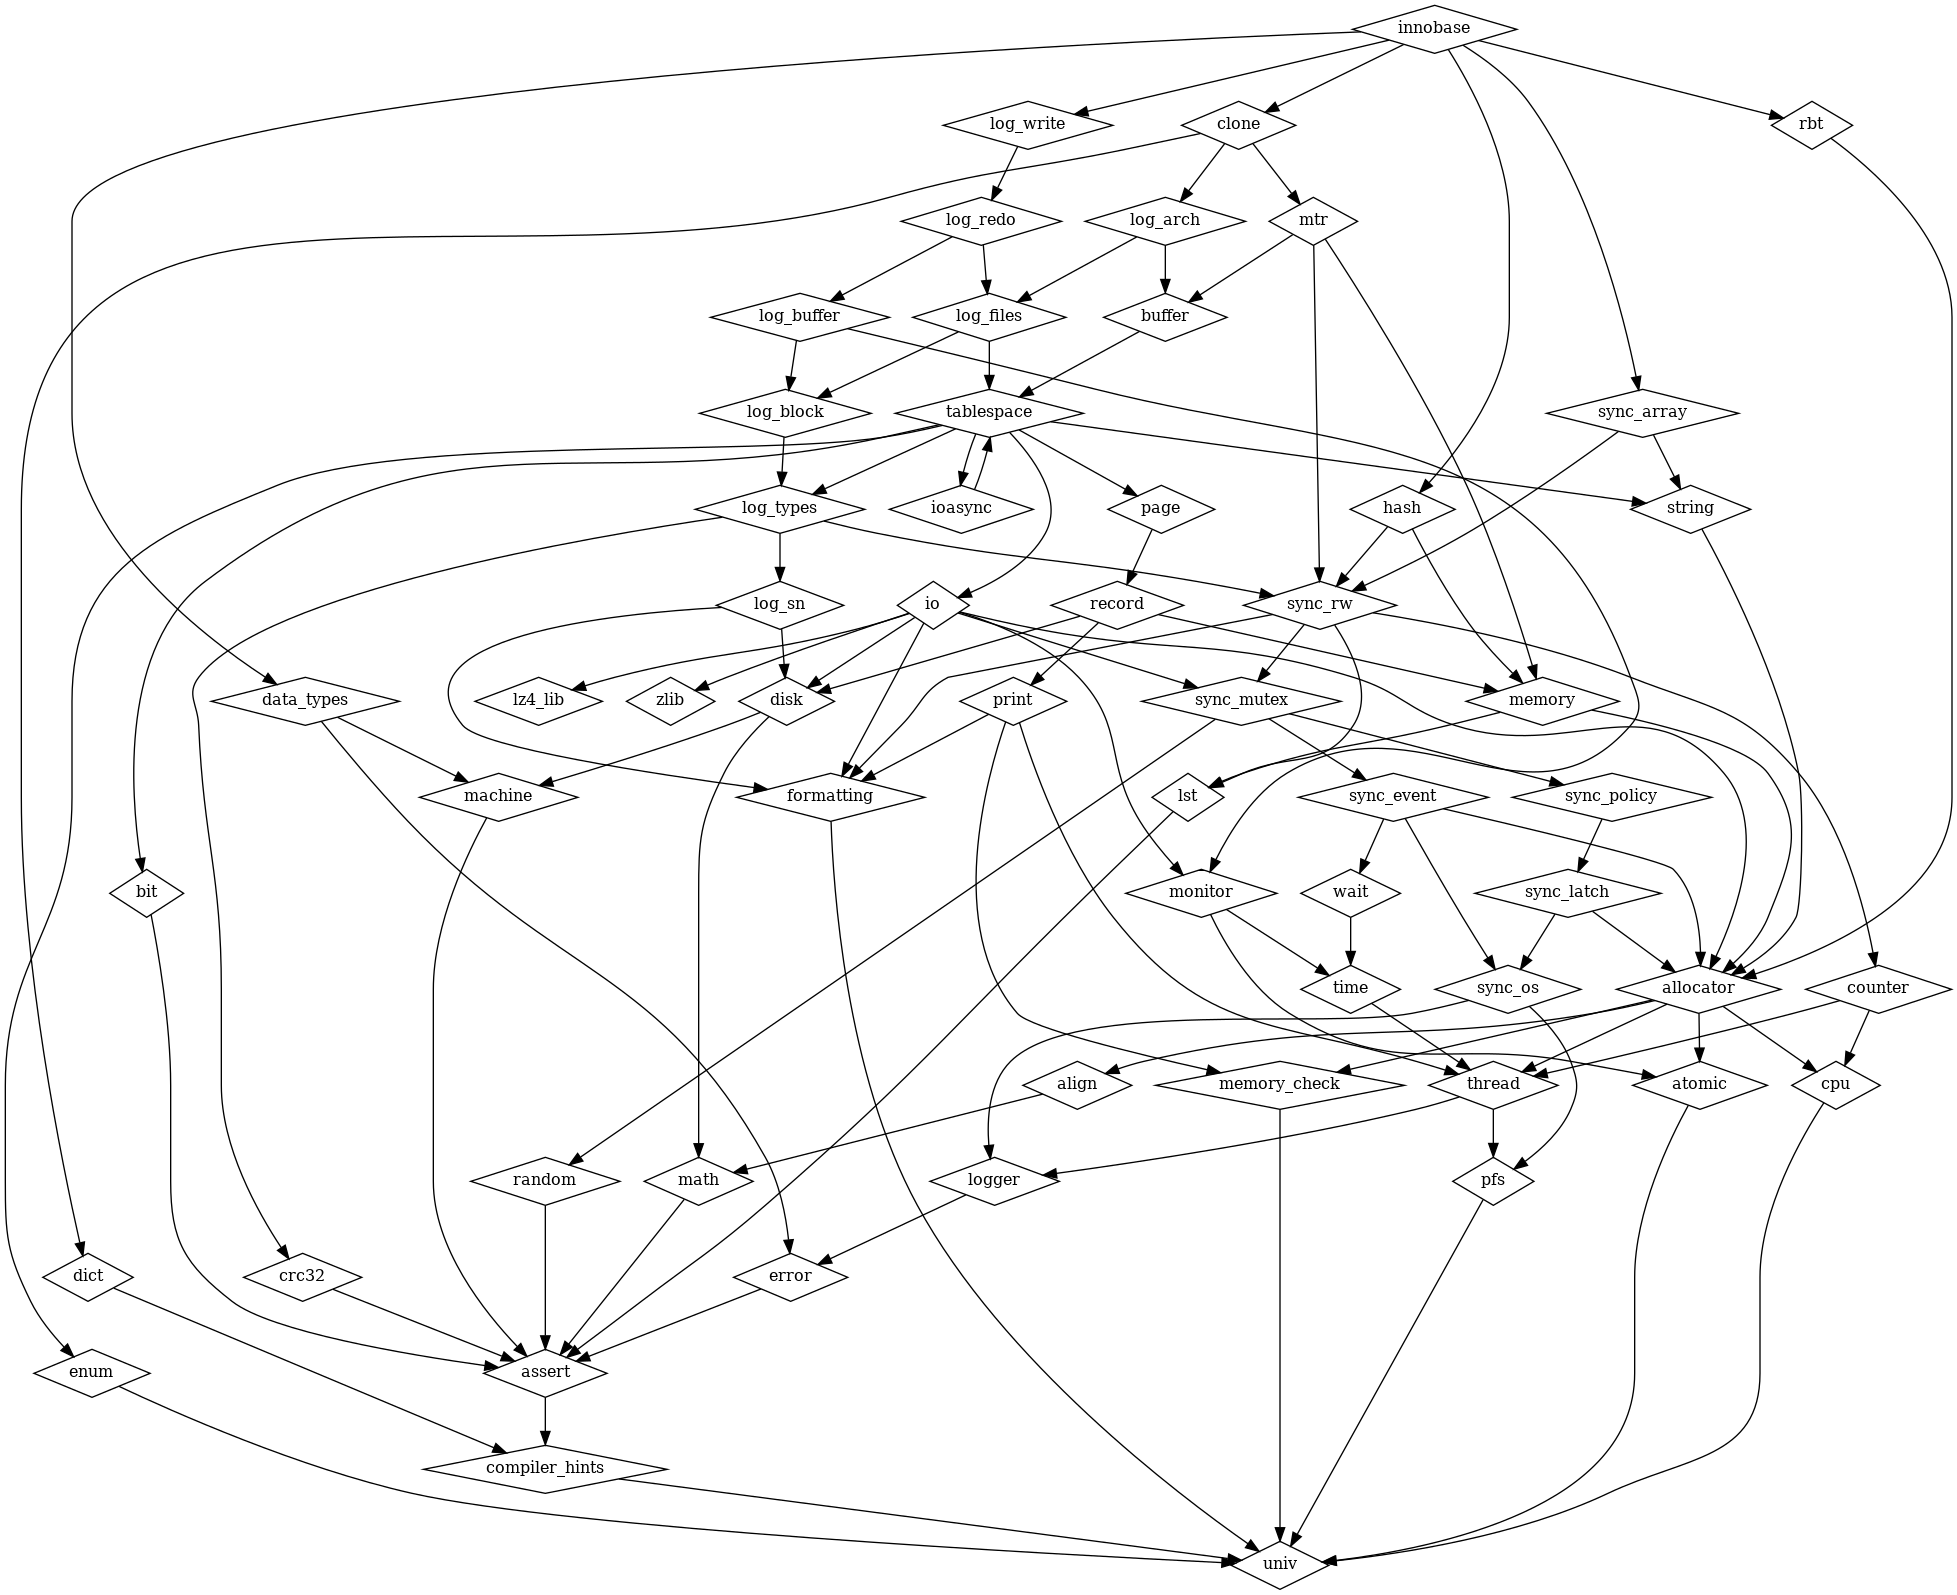
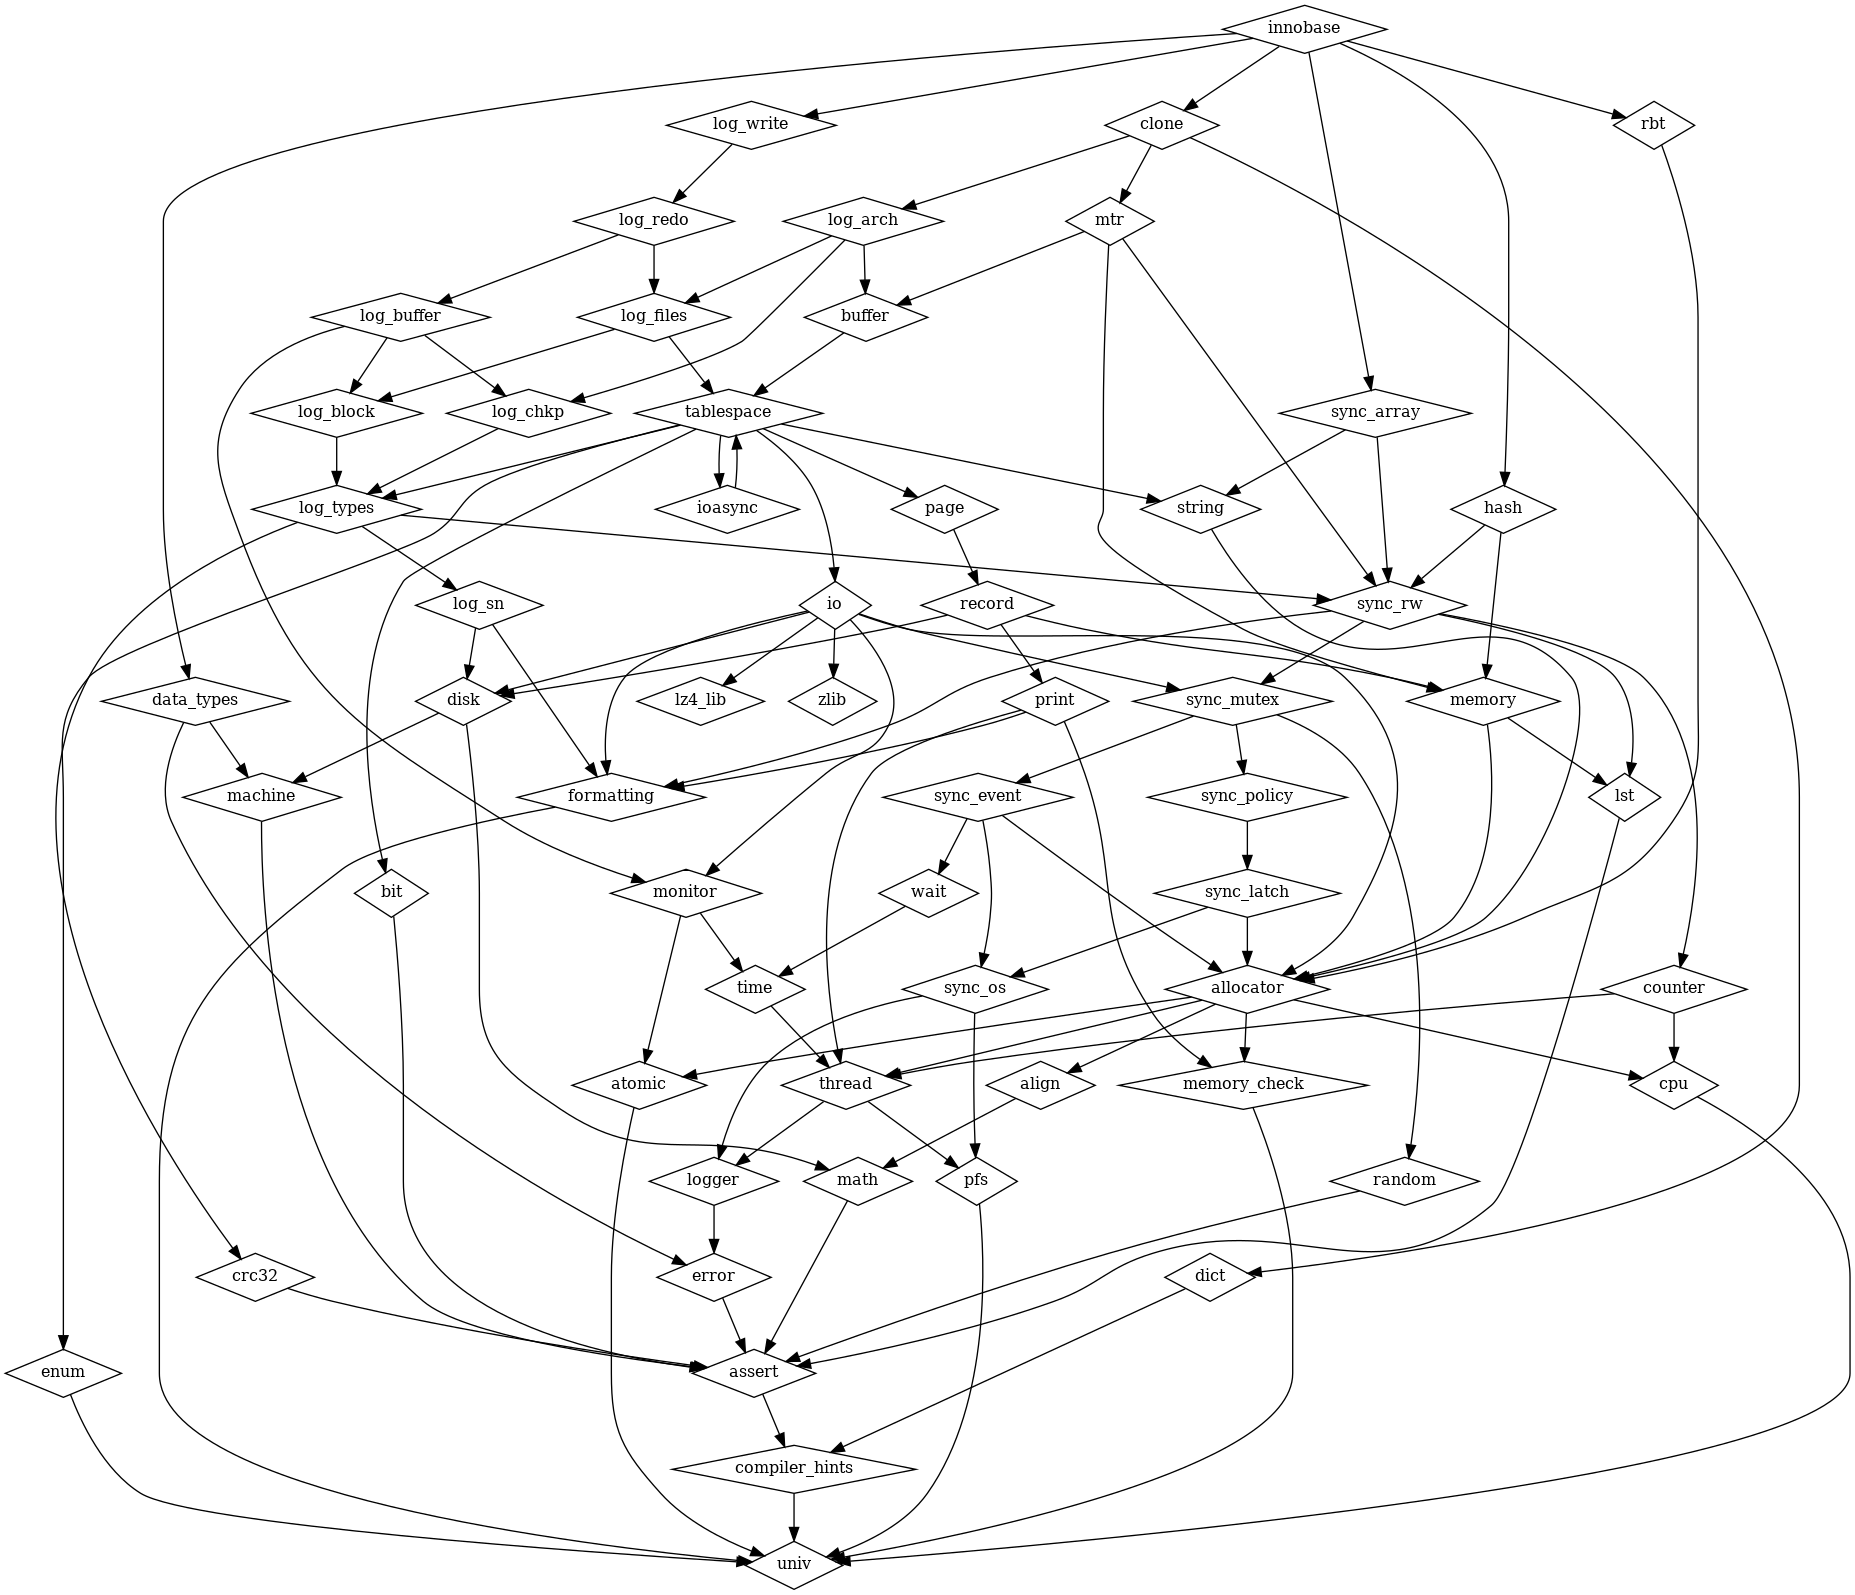
Create log_chkp library

diff --git a/storage/innobase/include/log0log.h b/storage/innobase/include/log0log.h
@@ -89,8 +89,8 @@ this program; if not, write to the Free Software Foundation, Inc.,
 #include <innodb/log_types/log_checksum_algorithm_ptr.h>
 #include <innodb/log_buffer/log_allocate_buffer.h>
 #include <innodb/log_redo/log_allocate_write_ahead_buffer.h>
-#include <innodb/log_redo/log_allocate_checkpoint_buffer.h>
-#include <innodb/log_redo/log_deallocate_checkpoint_buffer.h>
+#include <innodb/log_chkp/log_allocate_checkpoint_buffer.h>
+#include <innodb/log_chkp/log_deallocate_checkpoint_buffer.h>
 #include <innodb/log_redo/log_deallocate_flush_events.h>
 #include <innodb/log_redo/log_allocate_flush_events.h>
 #include <innodb/log_redo/log_deallocate_write_ahead_buffer.h>
@@ -122,7 +122,7 @@ this program; if not, write to the Free Software Foundation, Inc.,
 #include <innodb/log_sn/log_lsn_validate.h>
 #include <innodb/log_types/log_get_lsn.h>
 #include <innodb/log_types/log_get_checkpoint_lsn.h>
-#include <innodb/log_redo/log_get_checkpoint_age.h>
+#include <innodb/log_chkp/log_get_checkpoint_age.h>
 #include <innodb/log_buffer/log_buffer_flush_to_disk.h>
 #include <innodb/log_buffer/log_buffer_ready_for_write_lsn.h>
 #include <innodb/log_buffer/log_buffer_dirty_pages_added_up_to_lsn.h>

diff --git a/storage/innobase/handler/ha_innodb.cc b/storage/innobase/handler/ha_innodb.cc
@@ -62,10 +62,10 @@ this program; if not, write to the Free Software Foundation, Inc.,
 #include <innodb/sync_os/pfs.h>
 #include <innodb/log_write/srv_flushing_avg_loops.h>
 #include <innodb/log_write/srv_log_spin_cpu_pct_hwm.h>
-#include <innodb/log_types/log_checkpointer_mutex_exit.h>
+#include <innodb/log_chkp/log_checkpointer_mutex_exit.h>
 #include <innodb/log_types/log_writer_mutex_exit.h>
 #include <innodb/log_types/log_writer_mutex_enter.h>
-#include <innodb/log_types/log_checkpointer_mutex_enter.h>
+#include <innodb/log_chkp/log_checkpointer_mutex_enter.h>
 #include <innodb/memory/mem_heap_get_size.h>
 #include <innodb/memory/mem_heap_strdupl.h>
 #include <innodb/memory/mem_heap_empty.h>

diff --git a/storage/innobase/log/log0buf.cc b/storage/innobase/log/log0buf.cc
@@ -39,10 +39,10 @@ Foundation, Inc., 51 Franklin St, Fifth Floor, Boston, MA 02110-1301  USA
 
  *******************************************************/
 
-#include <innodb/log_types/log_checkpointer_mutex_exit.h>
+#include <innodb/log_chkp/log_checkpointer_mutex_exit.h>
 #include <innodb/log_types/log_writer_mutex_exit.h>
 #include <innodb/log_types/log_writer_mutex_enter.h>
-#include <innodb/log_types/log_checkpointer_mutex_enter.h>
+#include <innodb/log_chkp/log_checkpointer_mutex_enter.h>
 #include <innodb/logger/info.h>
 #include <innodb/align/ut_uint64_align_down.h>
 #include <innodb/align/ut_uint64_align_up.h>

diff --git a/storage/innobase/libs/log_buffer/src/log_buffer_resize.cpp b/storage/innobase/libs/log_buffer/src/log_buffer_resize.cpp
@@ -2,11 +2,11 @@
 
 #include <innodb/log_types/log_t.h>
 #include <innodb/log_types/log_get_lsn.h>
-#include <innodb/log_types/log_checkpointer_mutex_enter.h>
+#include <innodb/log_chkp/log_checkpointer_mutex_enter.h>
 #include <innodb/log_types/log_writer_mutex_enter.h>
 #include <innodb/log_buffer/log_buffer_resize_low.h>
 #include <innodb/log_types/log_writer_mutex_exit.h>
-#include <innodb/log_types/log_checkpointer_mutex_exit.h>
+#include <innodb/log_chkp/log_checkpointer_mutex_exit.h>
 #include <innodb/log_types/log_buffer_x_lock_exit.h>
 #include <innodb/log_types/log_buffer_x_lock_enter.h>
 

diff --git a/storage/innobase/libs/log_arch/src/Arch_Log_Sys.cpp b/storage/innobase/libs/log_arch/src/Arch_Log_Sys.cpp
@@ -17,8 +17,8 @@
 #include <innodb/log_block/log_block_calc_checksum_crc32.h>
 #include <innodb/log_block/log_block_get_checksum.h>
 #include <innodb/log_block/log_block_set_checksum.h>
-#include <innodb/log_types/log_checkpointer_mutex_enter.h>
-#include <innodb/log_types/log_checkpointer_mutex_exit.h>
+#include <innodb/log_chkp/log_checkpointer_mutex_enter.h>
+#include <innodb/log_chkp/log_checkpointer_mutex_exit.h>
 #include <innodb/log_files/log_files_header_fill.h>
 #include <innodb/log_files/log_files_real_offset_for_lsn.h>
 #include <innodb/log_types/log_sys.h>

diff --git a/storage/innobase/libs/log_write/src/log_wait_for_space_after_reserving.cpp b/storage/innobase/libs/log_write/src/log_wait_for_space_after_reserving.cpp
@@ -3,8 +3,8 @@
 #include <innodb/align/ut_uint64_align_up.h>
 #include <innodb/log_types/LOG_SYNC_POINT.h>
 #include <innodb/log_buffer/log_buffer_resize_low.h>
-#include <innodb/log_types/log_checkpointer_mutex_enter.h>
-#include <innodb/log_types/log_checkpointer_mutex_exit.h>
+#include <innodb/log_chkp/log_checkpointer_mutex_enter.h>
+#include <innodb/log_chkp/log_checkpointer_mutex_exit.h>
 #include <innodb/log_sn/log_translate_lsn_to_sn.h>
 #include <innodb/log_sn/log_translate_sn_to_lsn.h>
 #include <innodb/log_types/log_writer_mutex_enter.h>

diff --git a/storage/innobase/log/log0chkp.cc b/storage/innobase/log/log0chkp.cc
@@ -45,8 +45,8 @@ the file COPYING.Google.
  *******************************************************/
 
 #include <innodb/log_arch/arch_page_sys.h>
-#include <innodb/log_types/log_checkpointer_mutex_exit.h>
-#include <innodb/log_types/log_checkpointer_mutex_enter.h>
+#include <innodb/log_chkp/log_checkpointer_mutex_exit.h>
+#include <innodb/log_chkp/log_checkpointer_mutex_enter.h>
 #include <innodb/log_types/log_writer_mutex_enter.h>
 #include <innodb/log_types/log_writer_mutex_exit.h>
 #include <innodb/align/ut_uint64_align_down.h>

diff --git a/storage/innobase/libs/log_redo/src/log_sys_close.cpp b/storage/innobase/libs/log_redo/src/log_sys_close.cpp
@@ -5,7 +5,7 @@
 #include <innodb/log_redo/log_deallocate_flush_events.h>
 #include <innodb/log_redo/log_deallocate_recent_closed.h>
 #include <innodb/log_redo/log_deallocate_recent_written.h>
-#include <innodb/log_redo/log_deallocate_checkpoint_buffer.h>
+#include <innodb/log_chkp/log_deallocate_checkpoint_buffer.h>
 #include <innodb/log_redo/log_deallocate_write_ahead_buffer.h>
 #include <innodb/log_buffer/log_deallocate_buffer.h>
 #include <innodb/log_types/log_sys.h>

diff --git a/storage/innobase/libs/log_redo/src/log_sys_init.cpp b/storage/innobase/libs/log_redo/src/log_sys_init.cpp
@@ -2,7 +2,7 @@
 
 #include <innodb/log_types/flags.h>
 #include <innodb/log_buffer/log_allocate_buffer.h>
-#include <innodb/log_redo/log_allocate_checkpoint_buffer.h>
+#include <innodb/log_chkp/log_allocate_checkpoint_buffer.h>
 #include <innodb/log_files/log_allocate_file_header_buffers.h>
 #include <innodb/log_redo/log_allocate_flush_events.h>
 #include <innodb/log_redo/log_allocate_recent_closed.h>

diff --git a/storage/innobase/libs/log_buffer/src/log_buffer_resize_low.cpp b/storage/innobase/libs/log_buffer/src/log_buffer_resize_low.cpp
@@ -2,7 +2,7 @@
 
 #include <innodb/log_types/log_t.h>
 #include <innodb/log_types/flags.h>
-#include <innodb/log_types/log_checkpointer_mutex_own.h>
+#include <innodb/log_chkp/log_checkpointer_mutex_own.h>
 #include <innodb/log_types/log_writer_mutex_own.h>
 #include <innodb/align/ut_uint64_align_down.h>
 #include <innodb/align/ut_uint64_align_up.h>

diff --git a/storage/innobase/libs/log_redo/src/log_position_unlock.cpp b/storage/innobase/libs/log_redo/src/log_position_unlock.cpp
@@ -1,7 +1,7 @@
 #include <innodb/log_redo/log_position_unlock.h>
 
 #include <innodb/log_types/log_t.h>
-#include <innodb/log_types/log_checkpointer_mutex_exit.h>
+#include <innodb/log_chkp/log_checkpointer_mutex_exit.h>
 #include <innodb/log_types/log_buffer_x_lock_exit.h>
 
 void log_position_unlock(log_t &log) {

diff --git a/storage/innobase/libs/log_redo/src/log_position_lock.cpp b/storage/innobase/libs/log_redo/src/log_position_lock.cpp
@@ -1,7 +1,7 @@
 #include <innodb/log_redo/log_position_lock.h>
 
 #include <innodb/log_types/log_t.h>
-#include <innodb/log_types/log_checkpointer_mutex_enter.h>
+#include <innodb/log_chkp/log_checkpointer_mutex_enter.h>
 #include <innodb/log_types/log_buffer_x_lock_enter.h>
 
 void log_position_lock(log_t &log) {
